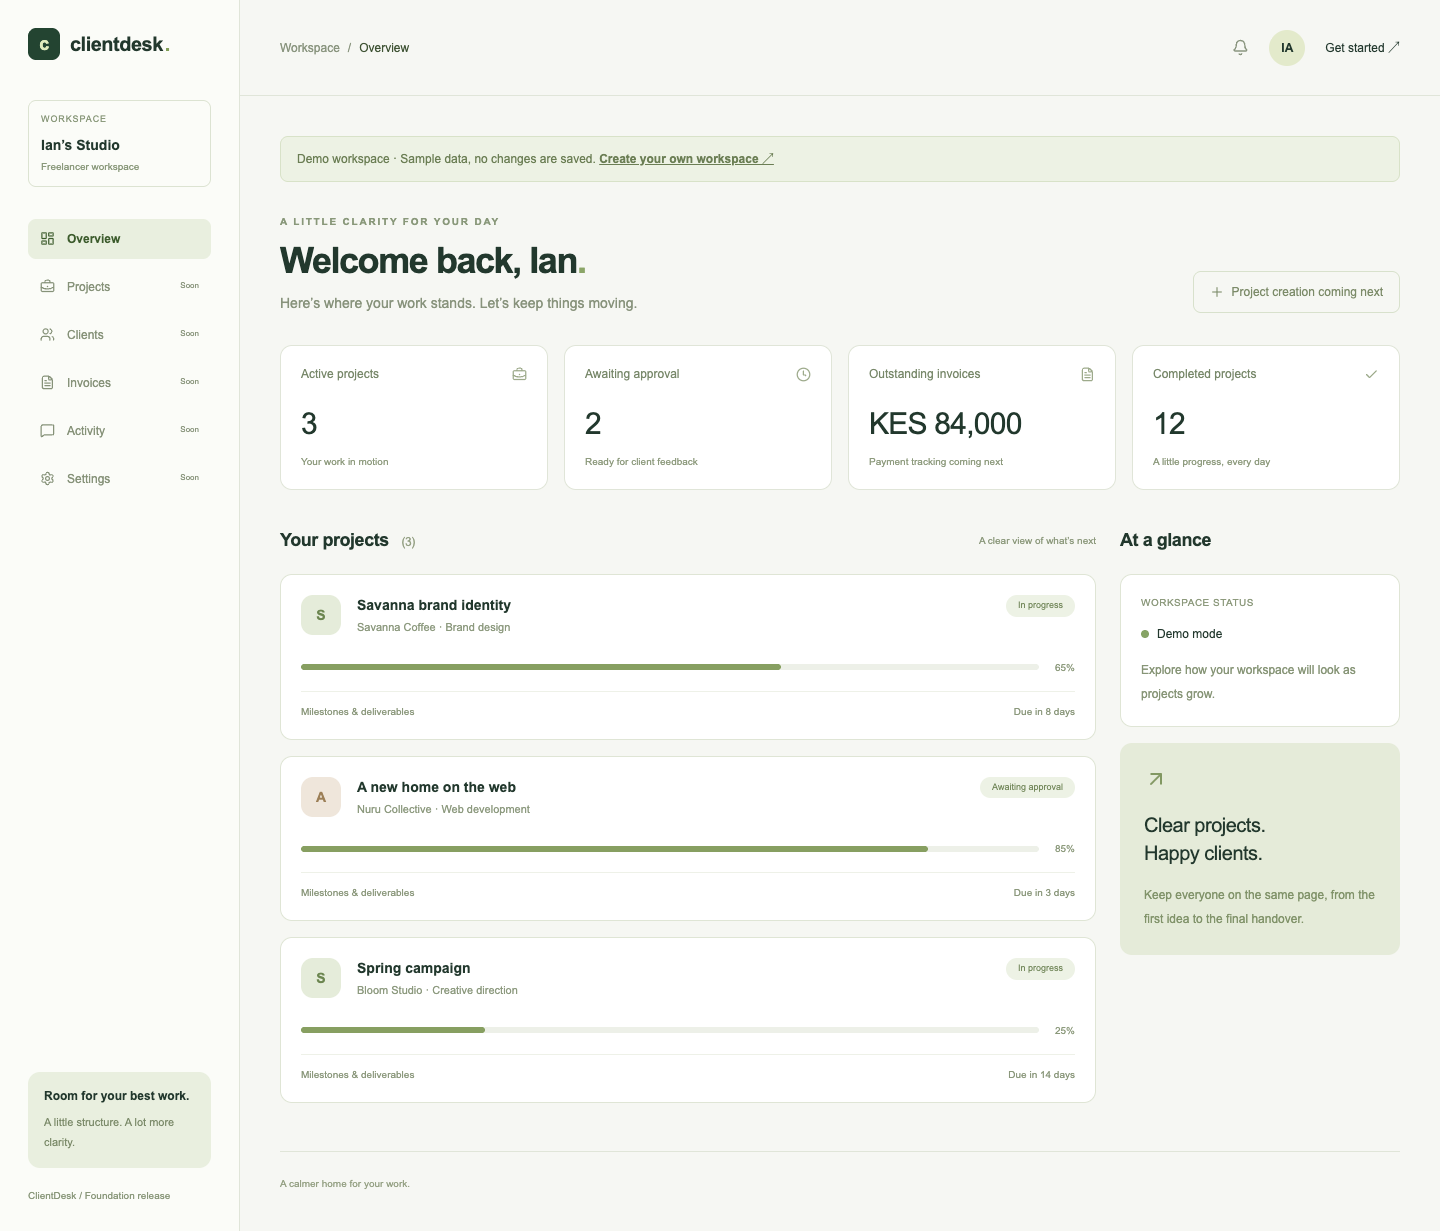
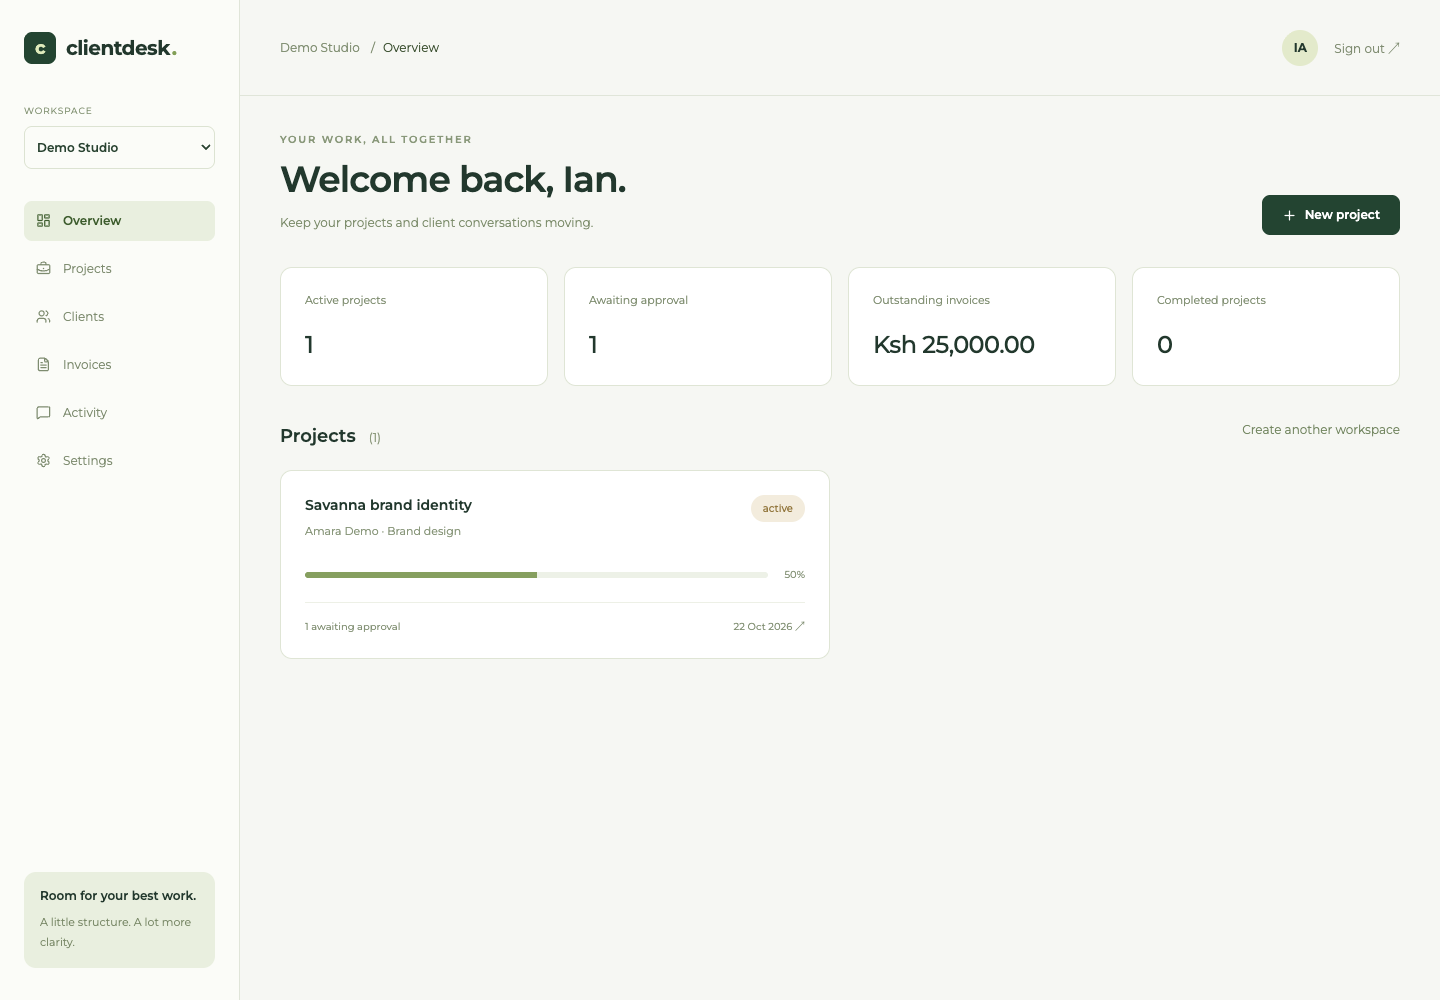
docs: document functional portal and refresh Montserrat previews

diff --git a/README.md b/README.md
@@ -2,37 +2,29 @@
 
 A calmer home for freelance projects and client collaboration.
 
-ClientDesk brings workspace membership, projects, milestones, deliverables, feedback, and invoice tracking into a single client portal. This repository is the **foundation release**, not the complete product yet.
+ClientDesk is a working freelancer/client portal built with **Next.js, React, Tailwind CSS, TypeScript, Node.js, and PostgreSQL**. Montserrat is self-hosted and used throughout the interface.
 
-## Preview
+![Freelancer dashboard](docs/screenshots/dashboard.png)
 
-![ClientDesk demo dashboard](docs/screenshots/dashboard.png)
+![Project milestones, deliverables, clients, and invoices](docs/screenshots/project.png)
 
-![ClientDesk registration](docs/screenshots/register.png)
+## What works
 
-## Stack
+- Registration, mandatory email verification, login/logout, persistent sessions, and password reset.
+- Workspace onboarding and switching; server-side session and membership checks.
+- Optional Google sign-in when OAuth credentials are configured.
+- Freelancer project creation, categories, briefs, due dates, and active/completed/archived states.
+- Project-specific client invitations: expiring, single-use links bound to the invited email address.
+- Milestones, private deliverable uploads/downloads, client approvals, revision requests, and review history.
+- Project comments, client removal, and activity history.
+- Draft invoices, sending, manual paid/void states, and browser printing/save-as-PDF.
+- Profile changes, password changes, and email-confirmed account deletion.
+- Email notifications with an outbox, delivery status, and retries.
+- Seeded freelancer/client accounts and a separate read-only `/demo` preview.
 
-- Next.js App Router and React, with TypeScript
-- Tailwind CSS
-- Node.js runtime and PostgreSQL
-- Better Auth for accounts, sessions, email verification, password resets, and organizations
-- SMTP delivery through Nodemailer; development emails appear in the server terminal
+Clients see only projects assigned to them. Workspace membership alone does not grant access to every project. Draft invoices are hidden from clients. Freelancers cannot approve their own milestones as clients.
 
-## Working in this release
-
-- Responsive landing page and a clearly labeled demo dashboard
-- Email/password registration, verification, sign-in, sign-out, and reset screens
-- Verification-required accounts and seven-day database-backed sessions
-- Password reset revokes existing sessions
-- Auth rate limiting stored in PostgreSQL
-- Workspace onboarding and a server-protected dashboard
-- Membership checks that derive workspace access from the signed-in user
-- Expiring organization invitations and an acceptance screen
-- Business schema for projects, project clients, milestones, deliverables, comments, invoices, and activity
-
-The dashboard modules marked “Soon” are not implemented. Demo projects and metrics are illustrative and do not represent real accounts or database records. The authenticated dashboard starts empty.
-
-## Local development
+## Local setup
 
 Use the Node version in `.nvmrc`:
 
@@ -43,14 +35,36 @@ cp .env.example .env.local
 openssl rand -base64 48
 ```
 
-Put the generated secret in `BETTER_AUTH_SECRET`. Start PostgreSQL using `docker compose up -d`, or set `DATABASE_URL` to a dedicated local database. If port 5432 is already occupied, use your existing PostgreSQL instance or change the Compose port and connection string.
+Put the generated secret in `BETTER_AUTH_SECRET`. Start PostgreSQL with `docker compose up -d`, or set `DATABASE_URL` to a dedicated existing database. If port 5432 is occupied, change the Compose port and connection string, or use your existing PostgreSQL instance.
 
 ```bash
 npm run db:migrate
 npm run dev
 ```
 
-Visit http://localhost:3000. `/demo` is available without a database account. For real onboarding: register → open the verification link printed in the server terminal → create a workspace → view the protected dashboard.
+Visit http://localhost:3000. In development, verification/reset/invitation links appear in the server terminal. Production email delivery requires SMTP.
+
+## Try the complete workflow
+
+1. Register a freelancer and open the email verification link.
+2. Create a workspace, then create a project and add a milestone.
+3. Invite a client using another email address. Open the client invitation link.
+4. In another browser session, register/verify that client account, reopen the invitation, and accept it.
+5. Upload a deliverable as the freelancer.
+6. Comment, approve, or request changes as the client.
+7. Create and send an invoice as the freelancer; record payment manually after receiving it.
+
+## Seeded demo accounts
+
+Set `DEMO_PASSWORD` in `.env.local` to at least 12 characters, then run:
+
+```bash
+npm run seed:demo
+```
+
+Sign in as `freelancer@clientdesk.demo` or `client@clientdesk.demo` using that password. Both accounts are verified for the sample workspace. The seed includes a project, milestones, a downloadable text deliverable, a comment, and an invoice. It can be rerun without overwriting existing projects or account passwords. Use this only for sample data.
+
+`/demo` remains a separate, read-only preview with illustrative metrics. The authenticated dashboard reads real database records.
 
 ## Validation
 
@@ -67,24 +81,30 @@ DATABASE_URL=postgresql://postgres:postgres@localhost:5432/clientdesk_test npm r
 DATABASE_URL=postgresql://postgres:postgres@localhost:5432/clientdesk_test npm test
 ```
 
-Set `BETTER_AUTH_SECRET` and `BETTER_AUTH_URL` for tests too. The test suite does not send production emails. CI starts an isolated PostgreSQL service.
+Set `BETTER_AUTH_SECRET` and `BETTER_AUTH_URL` for tests too. CI starts isolated PostgreSQL and runs migrations, lint, type checking, integration tests, and the production build. Tests cover auth lifecycle, account deletion, invitation expiry/reuse/email mismatch, project isolation, file access, revisions, invoices, and client removal.
 
-## Next release
+The complete registration-to-invoice workflow has also been checked in a real browser. For repeatable screenshots and a seeded UI smoke check, start the app, install a Playwright browser with `npx playwright install chromium`, then run `npm run preview:shots`. You may set `PLAYWRIGHT_BROWSER_PATH` to an installed Chrome executable instead.
 
-1. Freelancer project creation, client invitations, and project-specific client access.
-2. Milestones, comments, deliverable uploads, and approval history.
-3. Invoice generation and manual payment-status tracking; real payment processing comes later.
-4. Profile settings, password changes, account deletion, and optional Google sign-in.
-5. Activity feed, notification delivery, seeded database demo accounts, and browser flow tests.
+## Email and Google configuration
 
-## Deployment
+Set the SMTP variables and `EMAIL_FROM` from `.env.example` for production delivery. The Activity page shows project notification delivery status. `npm run notifications:send` processes the outbox; a deployed scheduler can run it every minute. Failed notifications retry up to three attempts automatically; workspace owners can explicitly retry them from Activity.
 
-Deployment is not provisioned yet. Use a Node-compatible Next.js host with managed PostgreSQL. Run `npm run db:migrate` as a release step, and set `DATABASE_URL`, `BETTER_AUTH_URL`, a fresh `BETTER_AUTH_SECRET`, and SMTP variables from `.env.example`. Use HTTPS and configure your SMTP sender domain. Never reuse development credentials in production.
+For optional Google sign-in, set `GOOGLE_CLIENT_ID` and `GOOGLE_CLIENT_SECRET`, and register `https://YOUR_DOMAIN/api/auth/callback/google` as the OAuth redirect URI. The Google button appears only when both credentials exist. External OAuth has not been exercised without provider credentials.
 
-Before publishing the complete demo, finish project-level client authorization and the remaining flows above. Storage for deliverables will use private object storage and short-lived download URLs; it is not wired in this release.
+## Storage and invoices
 
-See [architecture notes](docs/architecture.md) for data boundaries and implementation decisions.
+Uploads support PDF, PNG, JPEG, WebP, and plain text, up to **10 MB per file**. Content signatures/types are checked. Files are stored privately in PostgreSQL for this first release and downloaded through authenticated, project-authorized endpoints. There are no public file URLs. This is convenient for a small portfolio deployment; move large workloads to private object storage later.
+
+Invoice amounts use integer minor units. Printing uses the browser's print dialog and PDF export. Invoice payment tracking is manual; the app does not process payments.
+
+## Deployment status
+
+A public deployment has not been provisioned. Use a Node-compatible Next.js host and managed PostgreSQL; set the environment variables, run `npm run db:migrate`, then `npm run build` and `npm start`. Production must have HTTPS, a dedicated auth secret, configured SMTP, and trusted client-IP forwarding appropriate to the host. Do not enable public demo accounts on a workspace containing real client data.
+
+Account deletion removes workspaces where the deleted user is the only owner. In other workspaces, shared comments/approval history remains labeled `Former user`.
+
+See [architecture notes](docs/architecture.md) for data boundaries and decisions.
 
 ## Dependency audit
 
-Production dependencies currently pass `npm audit --omit=dev`. The generated Next.js ESLint tooling has an unresolved development-only `braces` advisory; the registry currently offers no patched `braces` release. Do not apply the suggested forced downgrade of the Next.js lint configuration without checking compatibility.
+Production dependencies pass `npm audit --omit=dev`. The Next.js ESLint tooling has an unresolved development-only `braces` advisory; there is currently no patched `braces` release in the registry. Avoid the suggested forced downgrade of the Next.js lint configuration without verifying compatibility.

diff --git a/docs/architecture.md b/docs/architecture.md
@@ -1,31 +1,41 @@
 # Architecture
 
-Next.js serves the React UI and Node.js route handlers from one origin. Better Auth owns account, session, verification, organization, member, invitation, and rate-limit tables. PostgreSQL persists authentication and business data. No authentication tokens are stored in browser local storage.
+Next.js serves the React UI and Node.js route handlers from one origin. Better Auth owns account, session, verification, organization, member, invitation, and rate-limit tables. PostgreSQL stores auth data, business records, private file content, and the email outbox. Montserrat assets are bundled locally with Fontsource.
 
-## Registration and onboarding
+## Accounts and workspace roles
 
-A freelancer registers with a name, email, and password. Email verification is mandatory. A valid verification link starts a session and redirects to onboarding. Workspace creation uses Better Auth’s organization endpoint, making the creator the owner. The dashboard reads the session on the server and checks actual membership before rendering a workspace.
+Registration requires email verification. Valid verification links start a session and redirect to workspace onboarding. Organization creation makes the freelancer the owner. A person can own one workspace and be a client in another; roles belong to memberships rather than global account flags.
 
-An invited client registers or signs in using the invitation’s email, verifies that account, reopens the invitation link, and accepts it. Better Auth checks the invitation and its expiry. The invitation acceptance page is wired; the owner-facing invitation UI is next-release work.
+Protected pages read sessions on the server. Business endpoints require a verified session, perform a membership lookup, and verify project-specific access. Workspace selection from URLs or session state never substitutes for authorization. Profile, password changes, deletion confirmation, and optional Google OAuth use Better Auth APIs.
 
-## Authorization
+## Project access and invitations
 
-Accounts do not carry a global “freelancer” or “client” flag. Membership roles belong to a workspace: owner is the freelancer; member represents a client. This permits one person to own one workspace and be a client in another. Never trust a workspace ID supplied by a browser without looking up the caller’s membership.
+Owners/admins manage workspace projects. Members may read only projects where their user ID appears in `project_client`. That same predicate guards overview lists, details, comments, files, milestones, invoices, and history. Clients cannot create projects, upload freelancer work, change invoice states, or alter project status. Draft invoices remain owner-only. Removing a project client immediately revokes those access predicates.
 
-`getWorkspaceMembership` binds a user ID and organization ID in one parameterized database query. The dashboard does not infer access from an active-organization cookie alone. The schema gives business records workspace IDs and uses composite foreign keys so a milestone or invoice cannot refer to a project in another workspace.
+Project invitations store only a SHA-256 hash of a 256-bit random token. Tokens expire after 48 hours, require the invited email, and are consumed inside a row-locked transaction. Acceptance creates workspace membership if necessary and assigns exactly one project. A unique workspace/user membership index prevents duplicates. Resending an invitation expires earlier unaccepted links for that project/email.
 
-Client membership is not permission to read every project in a workspace. `project_client` will be checked alongside membership in all future client project APIs. No business APIs exist yet; the schema alone does not implement this authorization.
+## Workflow integrity
 
-## Money and files
+Project data and audit entries are written in transactions. Composite foreign keys prevent milestones, invoices, deliverables, and comments from referencing another workspace's projects. Clients can approve or request changes only while a milestone awaits review and has a deliverable. The freelancer uploads revisions and may reopen an approved milestone; previous decisions remain in review history. Completion requires all milestones to be approved. Milestone editing requires an active project.
 
-Invoices store amounts in integer minor units, avoiding floating-point currency errors. Currency is recorded explicitly. Deliverables store metadata and object keys, rather than file bytes or public URLs. Future upload endpoints must validate type and size, verify project access, and issue short-lived private storage URLs.
+Date-only deadlines are returned as calendar-date strings, avoiding timezone shifts.
 
-## Email and deployment
+Invoice states follow draft -> sent -> paid, with void allowed from draft/sent. Paid and void invoices cannot be reopened through the API. Amounts are integer minor units with an explicit currency; totals are grouped by currency rather than mixing currencies.
 
-Local email links appear in the server terminal. Production requires SMTP; missing delivery configuration raises an error rather than printing live reset links. Database-backed auth rate limiting is shared across Node processes. Deployment migrations are additive for this foundation; introduce versioned transactional migrations as the schema evolves.
+## Private files
 
-## Validation limits
+Files are capped at 10 MB and request bodies are read with an enforced byte limit. Accepted types are PDF, PNG, JPEG, WebP, and UTF-8 plain text. Signature checks reject mismatched binary types. Filenames are sanitized. File bytes live in PostgreSQL for this small deployment; no public object URLs are issued. Downloads repeat project authorization and return attachment responses with no-store and nosniff headers. Replace database byte storage with private object storage for larger workloads.
 
-Integration tests cover verification-required sign-in, persistent sessions, logout, workspace ownership, member isolation, and cross-workspace foreign-key enforcement. A build validates TypeScript and all page modules. Full browser journeys, invitation abuse cases, and upload security tests belong to the feature releases that introduce those workflows.
+## Email
 
-Auth flow tests disable throttling to exercise multiple sign-ins quickly, then check throttling separately using an isolated in-memory rate-limit bucket. Production uses database-backed buckets. Configure trusted proxy IP forwarding for the deployment host; without a client IP, the auth library falls back to a shared bucket.
+Email outbox entries are committed alongside business changes, then delivered after the transaction. Delivery states are visible to workspace managers. Pending/failed messages have bounded retries, and the notification script can run on a deployed scheduler. The owner can explicitly retry failures. Authentication emails use Better Auth's delivery callbacks. Development prints email links to the server terminal; production requires SMTP. Provider errors do not undo a successfully saved business mutation.
+
+## Account deletion
+
+Deletion requires the current password in the UI and an expiring email confirmation link. Workspaces where the account is the sole owner are deleted, cascading their projects and files. Shared comments and approval history in other workspaces are retained with null author/reviewer references and rendered as `Former user`. Other owners' workspaces are preserved.
+
+## Operations and validation
+
+Business mutations enforce same-origin checks and a database-backed per-user rate limit. Auth throttles also use database storage. Configure trusted proxy IP forwarding for the deployed host; without a resolved IP the auth library uses a shared bucket. The migration runner records applied SQL files and applies each in a transaction under an advisory lock. Better Auth manages its own schema updates.
+
+Integration tests use separate temporary fixtures in a dedicated `_test` database. They cover the authentication lifecycle, destructive account confirmation, tenant/project isolation, invitation expiry and reuse, uploads/downloads, client revisions/approval, invoice states, access removal, and anonymized shared history. Auth functional tests disable throttling for rapid multi-login journeys and test throttling separately. Browser verification exercised registration through sending an invoice and checked desktop/mobile layout plus Montserrat. External Google OAuth and production SMTP require provider credentials and are not claimed as externally tested.
